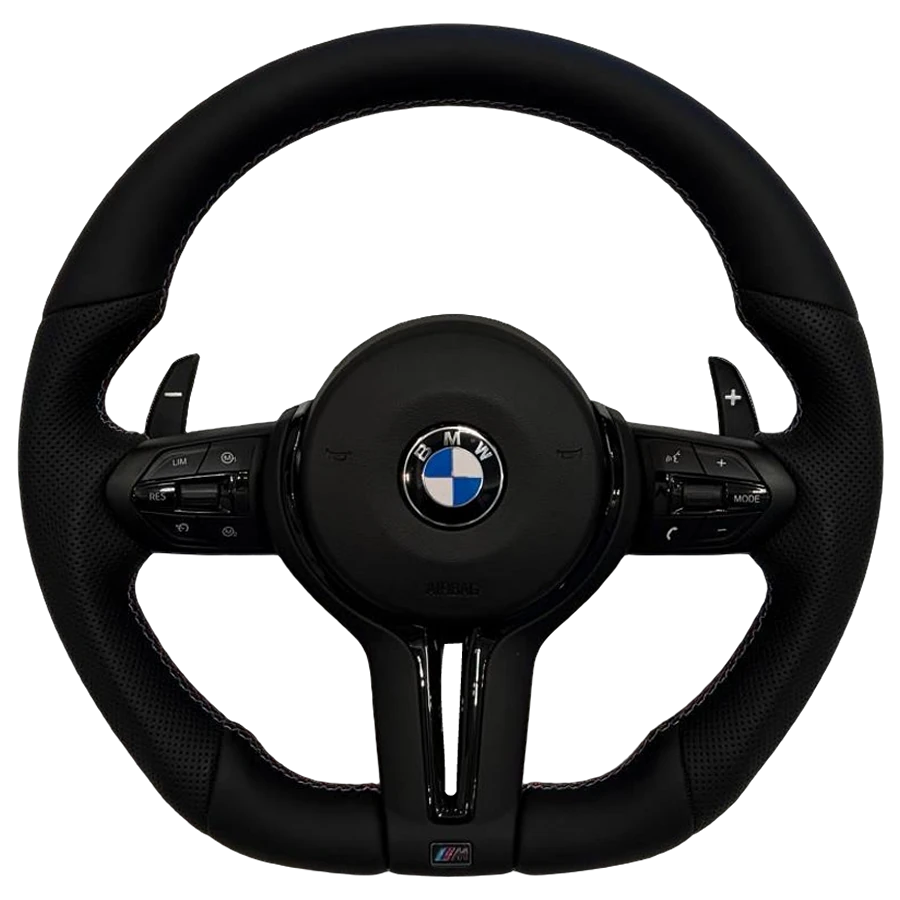
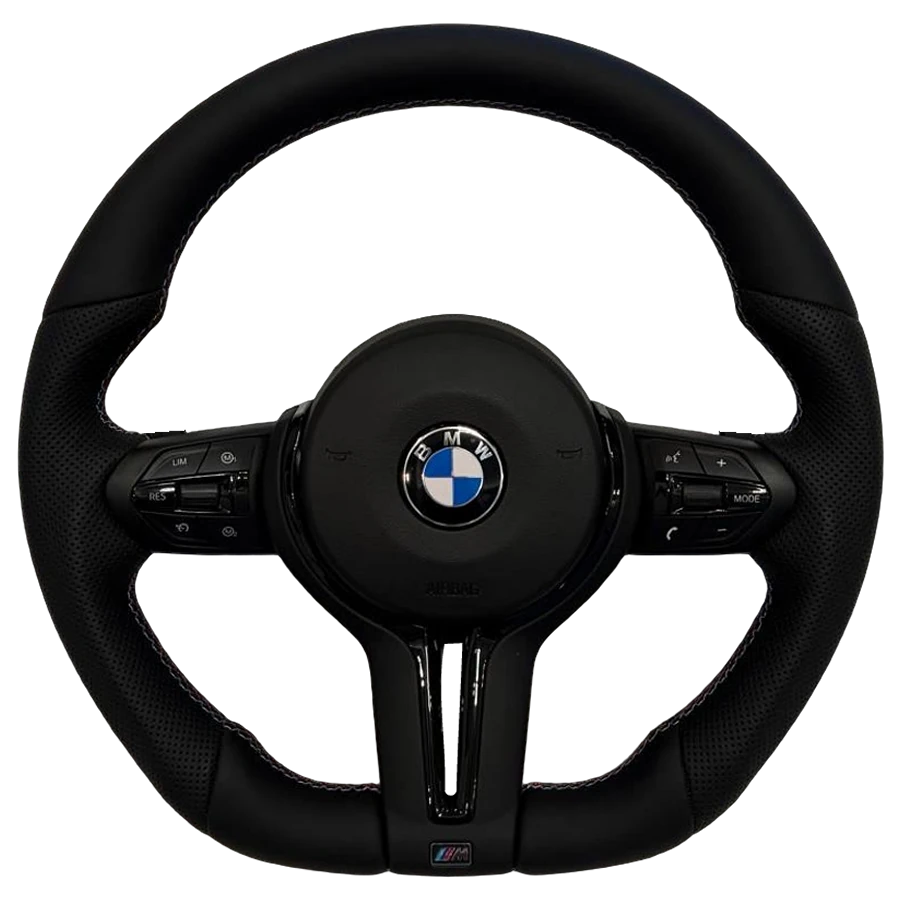
Конструктор v2: детали каталога F — ч/б эмблема, настоящие метки, 7 вставок, накладка карбон/кованый, 11 видов лепестков; v122

Changed region(s): [[0.7778, 0.3733, 0.84, 0.4978], [0.1556, 0.3733, 0.2178, 0.4978]]

diff --git a/builder.js b/builder.js
@@ -9,15 +9,15 @@ const read = () => { try { return JSON.parse(localStorage.getItem(KEY)) || {}; }
 const write = v => { try { localStorage.setItem(KEY, JSON.stringify(v)); } catch {} };
 
 let st = read();
+if (st.paddles === 'yes') st.paddles = 'std'; // старое значение
 let stepIndex = 0;
 
-// Живое превью (BMW): настоящие фото рулей E01/E02 (круглый) и E04/E05 (анатомия),
-// вырезаны локальной нейросетью BiRefNet. Вставка — слой с фото хромовой версии,
-// строчка — перекрашенные настоящие стежки, метка и чёрно-белая эмблема — слои поверх.
+// Живое превью (BMW): основа — настоящие фото E01 (круглый) и E04 (анатомия), вырезка локальной BiRefNet.
+// Детали — с рулей каталога: хром E02/E05, крашеные вставки F30/F31/F51/F78/F28, накладка карбон F11 и кованый F55,
+// метки E10/F17/F36/F14/F20/E11, строчка — перекрашенные настоящие стежки, лепестки — материал F70/F62/F65/F78 на форме родного.
 // Координаты слоёв: x, y, w, h в кадре 900×900 (site_clone/builder_tools, layers.json).
-const PV = 'builder/', PV_V = '1';
-const LAYERS = {"round":{"chrome":[275,391,360,440],"emblem-bw":[425,426,66,66],"stitch-red":[102,93,701,705],"stitch-blue":[102,93,701,705],"stitch-white":[102,93,701,705],"stitch-grey":[102,93,701,705],"stitch-yellow":[102,93,701,705],"stitch-tricolor":[102,93,701,705],"mark-red":[432,16,36,93],"mark-blue":[432,16,36,93],"mark-white":[432,16,36,93],"mark-yellow":[432,16,36,93],"mark-tricolor":[432,16,36,93]},"anatomy":{"chrome":[268,398,365,436],"emblem-bw":[419,439,67,73],"stitch-red":[93,96,713,699],"stitch-blue":[93,96,713,699],"stitch-white":[93,96,713,699],"stitch-grey":[93,96,713,699],"stitch-yellow":[93,96,713,699],"stitch-tricolor":[93,96,713,699],"mark-red":[431,21,40,88],"mark-blue":[431,21,40,88],"mark-white":[431,21,40,88],"mark-yellow":[431,21,40,88],"mark-tricolor":[431,21,40,88]}};
-const SHAPE_NUM = { round: 'E01/E02', anatomy: 'E04/E05' };
+const PV = 'builder/', PV_V = '3';
+const LAYERS = {"round":{"chrome":[275,391,360,440],"emblem-bw":[425,425,66,67],"paint-blue":[280,389,356,438],"paint-red":[281,389,352,437],"paint-yellow":[279,386,353,440],"paint-purple":[280,383,353,440],"paint-tricolor":[281,387,351,441],"cover-carbon":[258,409,394,458],"cover-forged":[258,409,394,454],"stitch-red":[102,93,701,705],"stitch-blue":[102,93,701,705],"stitch-white":[102,93,701,705],"stitch-grey":[102,93,701,705],"stitch-yellow":[102,93,701,705],"stitch-tricolor":[102,93,701,705],"mark-red":[429,16,42,93],"mark-blue":[426,16,46,92],"mark-lightblue":[422,16,55,93],"mark-white":[428,16,43,93],"mark-yellow":[427,16,48,93],"mark-tricolor":[429,16,41,87],"paddle-std":[149,346,606,79],"paddle-silver":[149,346,606,79],"paddle-carbon":[149,346,606,79],"paddle-red":[149,346,606,79],"paddle-forged-blue":[149,346,606,79],"paddle-purple":[149,346,606,79],"paddle-black-long":[149,300,607,126],"paddle-carbon-long":[149,300,607,126],"paddle-forged-blue-long":[149,300,607,126],"paddle-forged-red-long":[149,300,607,126],"paddle-purple-long":[149,300,607,126]},"anatomy":{"chrome":[268,398,365,436],"emblem-bw":[418,443,69,69],"paint-blue":[270,404,365,425],"paint-red":[270,403,362,425],"paint-yellow":[269,402,362,426],"paint-purple":[269,399,362,426],"paint-tricolor":[270,403,361,427],"cover-carbon":[256,423,391,441],"cover-forged":[256,423,391,438],"stitch-red":[93,96,713,699],"stitch-blue":[93,96,713,699],"stitch-white":[93,96,713,699],"stitch-grey":[93,96,713,699],"stitch-yellow":[93,96,713,699],"stitch-tricolor":[93,96,713,699],"mark-red":[431,21,40,88],"mark-blue":[428,21,44,88],"mark-lightblue":[423,21,56,88],"mark-white":[430,21,42,88],"mark-yellow":[429,21,46,88],"mark-tricolor":[431,21,39,83],"paddle-std":[140,351,627,86],"paddle-silver":[140,351,627,86],"paddle-carbon":[140,351,627,86],"paddle-red":[140,351,627,86],"paddle-forged-blue":[140,351,627,86],"paddle-purple":[140,351,627,86],"paddle-black-long":[140,298,627,139],"paddle-carbon-long":[140,298,627,139],"paddle-forged-blue-long":[140,298,627,139],"paddle-forged-red-long":[140,298,627,139],"paddle-purple-long":[140,298,627,139]}};
 
 const CARS = [
   ['BMW-E', 'BMW · E-кузов'],
@@ -29,7 +29,7 @@ const CARS = [
 const isBMW = () => String(st.car || '').startsWith('BMW');
 const isE = () => st.car === 'BMW-E';
 
-const SWATCH = { red: '#d3302f', blue: '#2f6fe0', white: '#f4f4f4', grey: '#8d9299', yellow: '#f2c230', black: '#111', chrome: 'linear-gradient(135deg,#f6f7f9,#9aa0a8 45%,#eef0f2 60%,#7d838b)', gloss: 'linear-gradient(135deg,#3a3d42,#050506 50%,#2a2c30)', tricolor: 'linear-gradient(90deg,#4aa3ff 0 33%,#1b3a8a 33% 66%,#e2231a 66%)' };
+const SWATCH = { red: '#d3302f', blue: '#2f6fe0', white: '#f4f4f4', grey: '#8d9299', yellow: '#f2c230', black: '#111', chrome: 'linear-gradient(135deg,#f6f7f9,#9aa0a8 45%,#eef0f2 60%,#7d838b)', gloss: 'linear-gradient(135deg,#3a3d42,#050506 50%,#2a2c30)', tricolor: 'linear-gradient(90deg,#4aa3ff 0 33%,#1b3a8a 33% 66%,#e2231a 66%)', purple: '#5b3d9e', lightblue: '#3fb4f0', bluered: 'linear-gradient(90deg,#1e4fd0 0 50%,#d6262a 50%)', carbon: 'repeating-linear-gradient(45deg,#2a2c30 0 3px,#121315 3px 6px)', forged: 'radial-gradient(circle at 30% 30%,#9aa3b0 0 12%,transparent 13%),radial-gradient(circle at 70% 60%,#5f6b80 0 15%,transparent 16%),#16181c', forgedred: 'radial-gradient(circle at 30% 30%,#c0393b 0 12%,transparent 13%),radial-gradient(circle at 70% 60%,#7d2a2b 0 15%,transparent 16%),#16181c' };
 
 const STEPS = [
   { key: 'car', title: 'Для какой машины?', sub: 'От кузова зависят эмблема, функции и цена.', options: () => CARS.map(([v, l]) => ({ v, l })) },
@@ -37,10 +37,20 @@ const STEPS = [
     { v: 'round', l: 'Круглый', thumb: 'round' },
     { v: 'anatomy', l: 'Анатомия', thumb: 'anatomy' },
   ] },
-  { key: 'insert', title: 'Цвет вставки', sub: 'Вставка — накладка вокруг подушки и на нижней спице.', options: () => [
+  { key: 'insert', title: 'Цвет вставки', sub: 'Кольцо вокруг подушки и полоски на нижней спице.', options: () => [
     { v: 'gloss', l: 'Чёрный глянец', sw: 'gloss' },
     { v: 'chrome', l: 'Хром', sw: 'chrome' },
-  ] },
+    { v: 'blue', l: 'Синяя', sw: 'blue' },
+    { v: 'red', l: 'Красная', sw: 'red' },
+    { v: 'yellow', l: 'Жёлтая', sw: 'yellow' },
+    { v: 'purple', l: 'Фиолетовая', sw: 'purple' },
+    { v: 'tricolor', l: 'Синяя + красная', sw: 'bluered' },
+  ].filter(o => isBMW() || ['gloss', 'chrome'].includes(o.v)) },
+  { key: 'cover', title: 'Накладка спицы', sub: 'Деталь вокруг вставки и на нижней спице.', options: () => [
+    { v: 'leather', l: 'Чёрная, как на фото', sw: 'black' },
+    { v: 'carbon', l: 'Карбон', sw: 'carbon' },
+    { v: 'forged', l: 'Кованый карбон', sw: 'forged' },
+  ].filter(o => isBMW() || o.v !== 'forged') },
   { key: 'stitch', title: 'Цвет строчки', sub: 'Нитки по ободу руля. Меняем бесплатно.', options: () => [
     { v: 'red', l: 'Красная', sw: 'red' },
     { v: 'blue', l: 'Синяя', sw: 'blue' },
@@ -60,6 +70,7 @@ const STEPS = [
     { v: 'none', l: 'Без метки' },
     { v: 'red', l: 'Красная', sw: 'red' },
     { v: 'blue', l: 'Синяя', sw: 'blue' },
+    { v: 'lightblue', l: 'Голубая', sw: 'lightblue' },
     { v: 'white', l: 'Белая', sw: 'white' },
     { v: 'yellow', l: 'Жёлтая', sw: 'yellow' },
     { v: 'tricolor', l: 'M-метка (триколор)', sw: 'tricolor' },
@@ -70,10 +81,19 @@ const STEPS = [
     { v: 'carbon', l: 'Кожа + карбон', note: 'На карбоне подогрев не греет' },
   ] },
   { key: 'paddles', title: 'Лепестки', sub: 'Лепестки работают. Если их не было с завода — нужно закодировать.', options: () => [
-    { v: 'yes', l: 'С лепестками' },
-    { v: 'carbon', l: 'Карбоновые лепестки' },
+    { v: 'std', l: 'Стандартные', sw: 'black' },
+    { v: 'silver', l: 'Серебристые', sw: 'chrome' },
+    { v: 'carbon', l: 'Карбон, красный «+»', sw: 'carbon' },
+    { v: 'red', l: 'Красные', sw: 'red' },
+    { v: 'forged-blue', l: 'Кованый карбон', sw: 'forged' },
+    { v: 'purple', l: 'Фиолетовые', sw: 'purple' },
+    { v: 'black-long', l: 'Удлинённые чёрные', sw: 'black' },
+    { v: 'carbon-long', l: 'Удлинённые карбон', sw: 'carbon' },
+    { v: 'forged-blue-long', l: 'Удлинённые кованые, синие вкрапления', sw: 'forged' },
+    { v: 'forged-red-long', l: 'Удлинённые кованые, красные вкрапления', sw: 'forgedred' },
+    { v: 'purple-long', l: 'Удлинённые фиолетовые', sw: 'purple' },
     { v: 'no', l: 'Без лепестков', note: 'Цена не меняется' },
-  ] },
+  ].filter(o => isBMW() || ['std', 'carbon', 'no'].includes(o.v)) },
   { key: 'functions', title: 'Функции', sub: 'Работают, если такая функция была в Вашей машине.', multi: true },
   { key: 'done', title: 'Ваш руль', sub: 'Проверьте выбор и отправьте — менеджер назовёт точную цену и срок.' },
 ];
@@ -114,11 +134,11 @@ function priceFrom(catalog) {
   const prices = catalog.filter(p => p.series === ser).flatMap(p => Object.values(p.prices || {}));
   const pick = prices.map(o => ser === 'E' ? o.single : f.heat ? o.heated : o.unheated).filter(n => typeof n === 'number');
   if (!pick.length) return null;
-  const extra = [f.vib && 'вибромотор', f.cruise && 'круиз', st.rim && st.rim !== 'leather' && LABEL('rim', st.rim).toLowerCase()].filter(Boolean);
+  const extra = [f.vib && 'вибромотор', f.cruise && 'круиз', st.rim && st.rim !== 'leather' && LABEL('rim', st.rim).toLowerCase(), (st.cover === 'carbon' || st.cover === 'forged') && 'накладка: ' + LABEL('cover', st.cover).toLowerCase()].filter(Boolean);
   return { sum: Math.min(...pick), extra: extra.length ? extra.join(', ') + ' — цену уточним' : '' };
 }
 
-const SUMLABEL = { car: 'Машина', shape: 'Форма', insert: 'Вставка', stitch: 'Строчка', emblem: 'Эмблема', mark: 'Метка', rim: 'Обод', paddles: 'Лепестки' };
+const SUMLABEL = { car: 'Машина', shape: 'Форма', insert: 'Вставка', cover: 'Накладка', stitch: 'Строчка', emblem: 'Эмблема', mark: 'Метка', rim: 'Обод', paddles: 'Лепестки' };
 function summaryRows() {
   const rows = [];
   for (const s of STEPS) {
@@ -139,7 +159,7 @@ function message(catalog) {
   const l = k => L(k).replace(/^([А-ЯЁ])(?=[а-яё])/, c => c.toLowerCase()); // «Красная» → «красная», BMW/M не трогаем
   const f = funcs(), yes = (k, a = 'нужен', b = 'не нужен') => f[k] ? a : b;
   const lines = ['Хочу узнать цену руля из конструктора', 'Под заказ',
-    'Машина: ' + L('car'), 'Форма: ' + l('shape'), 'Вставка: ' + l('insert'),
+    'Машина: ' + L('car'), 'Форма: ' + l('shape'), 'Вставка: ' + l('insert'), 'Накладка спицы: ' + l('cover'),
     'Строчка: ' + l('stitch'), 'Эмблема: ' + l('emblem'), 'Метка на 12 часов: ' + l('mark'),
     'Обод: ' + l('rim'), 'Кожа: чёрная', 'Лепестки: ' + l('paddles')];
   if (!isE()) lines.push('Подогрев: ' + yes('heat'));
@@ -164,22 +184,24 @@ const shapeNow = () => st.shape || 'round';
 function activeLayers() {
   const on = new Set();
   if (st.insert === 'chrome') on.add('chrome');
+  else if (st.insert && st.insert !== 'gloss') on.add('paint-' + st.insert);
+  if (st.cover === 'carbon' || st.cover === 'forged') on.add('cover-' + st.cover);
+  const pd = st.paddles || 'std';
+  if (pd !== 'no') on.add('paddle-' + (LAYERS.round['paddle-' + pd] ? pd : 'std'));
   if (st.mark && st.mark !== 'none') on.add('mark-' + st.mark);
   if (st.stitch) on.add('stitch-' + st.stitch);
   if (st.emblem === 'bmw-bw') on.add('emblem-bw');
   return on;
 }
-// Порядок слоёв: руль → вставка → метка → строчка → эмблема
-const ORDER = k => k === 'chrome' ? 1 : k.startsWith('mark') ? 2 : k.startsWith('stitch') ? 3 : 4;
+// Порядок слоёв: руль → лепестки → накладка → вставка → метка → строчка → эмблема
+const ORDER = k => k.startsWith('paddle') ? 0 : k.startsWith('cover') ? 0.5 : (k === 'chrome' || k.startsWith('paint')) ? 1 : k.startsWith('mark') ? 2 : k.startsWith('stitch') ? 3 : 4;
 function wheelHTML() {
   const sh = shapeNow(), on = activeLayers();
   const layers = Object.entries(LAYERS[sh]).sort((a, b) => ORDER(a[0]) - ORDER(b[0]));
   const pct = n => (n / 9).toFixed(3) + '%';
-  const g = st.car === 'BMW-G' || st.car === 'BMW-U';
   return `<figure class="bd-wheel" id="bd-wheel" data-shape="${sh}">
     <div class="bd-wheel-img"><img class="bd-base" src="${PV}${sh}.webp?v=${PV_V}" alt="Руль: ${esc(LABEL('shape', sh) || '')}" decoding="async">
     ${layers.map(([k, [x, y, w, h]]) => `<img class="bd-layer ${on.has(k) ? 'on' : ''}" data-layer="${k}" src="${PV}${sh}-${k}.webp?v=${PV_V}" alt="" decoding="async" style="left:${pct(x)};top:${pct(y)};width:${pct(w)};height:${pct(h)}">`).join('')}</div>
-    <figcaption>${g ? 'Пример на руле F-кузова: у рулей G-кузова спицы другой формы.' : 'Настоящие фото рулей № ' + SHAPE_NUM[sh] + '. Детали меняются по Вашему выбору.'}</figcaption>
   </figure>`;
 }
 function syncWheel() {
@@ -241,7 +263,7 @@ function repaint(catalog, scroll) {
   root.outerHTML = builderPage(catalog);
   // тот же руль — оставляем загруженные картинки, меняем только слои (без мигания)
   const neu = document.getElementById('bd-wheel');
-  if (old && neu && old.dataset.shape === neu.dataset.shape) { neu.replaceWith(old); old.querySelector('figcaption').outerHTML = neu.querySelector('figcaption').outerHTML; }
+  if (old && neu && old.dataset.shape === neu.dataset.shape) { neu.replaceWith(old); }
   syncWheel();
   if (scroll) {
     const target = window.matchMedia('(max-width:900px)').matches && document.getElementById('bd-wheel') ? document.querySelector('.bd-layout') : document.querySelector('.bd-step');

diff --git a/index.html b/index.html
@@ -2,8 +2,8 @@
 <html lang="ru"><head>
 <meta charset="utf-8"><meta name="viewport" content="width=device-width, initial-scale=1, viewport-fit=cover"><meta name="theme-color" content="#111316">
 <title>BMW Steering Wheels — руль под Ваш характер</title><meta name="description" content="Подберите руль BMW или Mercedes-Benz: подогрев, вибрация, круиз-контроль. Реальные фотографии, комплектации и цены. Сравните варианты и отправьте подборку менеджеру.">
-<link rel="icon" href="favicon.svg" type="image/svg+xml"><link rel="stylesheet" href="studio.css?v=109"><link rel="stylesheet" href="viewer.css?v=109"><link rel="stylesheet" href="dark.css?v=109"><link rel="stylesheet" href="builder.css?v=119">
-<script src="https://telegram.org/js/telegram-web-app.js?63" defer></script><script src="stats-config.js?v=111" defer></script><script src="analytics.js?v=110" defer></script><script src="gallery.js?v=109" defer></script><script src="studio.js?v=119" type="module"></script>
+<link rel="icon" href="favicon.svg" type="image/svg+xml"><link rel="stylesheet" href="studio.css?v=109"><link rel="stylesheet" href="viewer.css?v=109"><link rel="stylesheet" href="dark.css?v=109"><link rel="stylesheet" href="builder.css?v=122">
+<script src="https://telegram.org/js/telegram-web-app.js?63" defer></script><script src="stats-config.js?v=111" defer></script><script src="analytics.js?v=110" defer></script><script src="gallery.js?v=109" defer></script><script src="studio.js?v=122" type="module"></script>
 </head><body>
 <a href="#main" class="skip-link">Перейти к содержимому</a>
 <header class="site-header"><nav class="desktop-nav" aria-label="Основная навигация"><a href="#/" data-nav="configure">Подобрать руль</a><a href="#/catalog" data-nav="catalog">Каталог</a><a href="#/favorites" data-nav="favorites">Избранное <span data-fav-count>0</span></a></nav><a class="header-contact" href="https://t.me/samoha8989" data-telegram>Помочь с выбором <span aria-hidden="true">↗</span></a></header>

diff --git a/builder.css b/builder.css
@@ -66,8 +66,8 @@
  .bd-opt{padding:12px 10px;gap:8px}
  .bd-opt-text b{font-size:14px}
  .bd-swatch{width:28px;height:28px}
- .bd-dots{gap:5px;flex-wrap:nowrap}
- .bd-dots button{width:28px;height:28px;font-size:11px;flex:none}
+ .bd-dots{gap:4px;flex-wrap:nowrap}
+ .bd-dots button{width:26px;height:26px;font-size:10px;flex:none}
  .bd-nav{position:sticky;bottom:calc(var(--safe-bottom,0px));padding-bottom:12px;background:var(--surface,#fff);padding-top:10px;margin-top:16px}
  .bd-nav .btn{flex:1;min-width:0}
  .bd-last .bd-nav{position:static;padding-bottom:0}
@@ -78,7 +78,7 @@
 .bd-layout.has-preview .bd-preview{grid-area:pv;position:sticky;top:16px;align-self:start}
 .bd-layout.has-preview .bd-step{grid-area:step}
 .bd-layout.has-preview .bd-side{grid-area:side;position:static}
-.bd-wheel{margin:0;background:#fff;border-radius:22px;padding:5% 5% 14px;box-shadow:0 10px 40px rgba(0,0,0,.25)}
+.bd-wheel{margin:0;background:#fff;border-radius:22px;padding:5%;box-shadow:0 10px 40px rgba(0,0,0,.25)}
 .bd-wheel-img{position:relative;width:100%;aspect-ratio:1}
 .bd-wheel-img img{position:absolute;display:block;max-width:none;pointer-events:none;user-select:none}
 .bd-base{inset:0;width:100%;height:100%}
@@ -90,7 +90,7 @@
 @media (max-width:900px){
  .bd-layout.has-preview{grid-template-columns:1fr;grid-template-areas:"pv" "step" "side";gap:14px}
  .bd-layout.has-preview .bd-preview{position:sticky;top:0;z-index:6;padding:8px 0 6px;background:var(--paper)}
- .bd-wheel{padding:3% 3% 8px;border-radius:18px;box-shadow:0 6px 24px rgba(0,0,0,.35)}
+ .bd-wheel{padding:3%;border-radius:18px;box-shadow:0 6px 24px rgba(0,0,0,.35)}
  .bd-wheel-img{width:min(100%,40vh);margin:0 auto}
  .bd-wheel figcaption{margin-top:4px;font-size:10px}
  .bd-layout.has-preview .bd-step{scroll-margin-top:calc(40vh + 40px)}

diff --git a/studio.js b/studio.js
@@ -1,4 +1,4 @@
-import {builderPage,builderClick,builderEnter} from './builder.js?v=119';
+import {builderPage,builderClick,builderEnter} from './builder.js?v=122';
 import {ONE,brandName,brandKey,defaults,cleanState,keyOf,brandOf,priceInfo,filterProducts,featureLabels,requestedFeatures,buildRequest,uNum} from './catalog-engine.js?v=109';
 const main=document.getElementById('main'),dock=document.getElementById('action-dock');
 const esc=s=>String(s??'').replace(/[&<>"']/g,c=>({'&':'&amp;','<':'&lt;','>':'&gt;','"':'&quot;',"'":'&#39;'}[c]));
